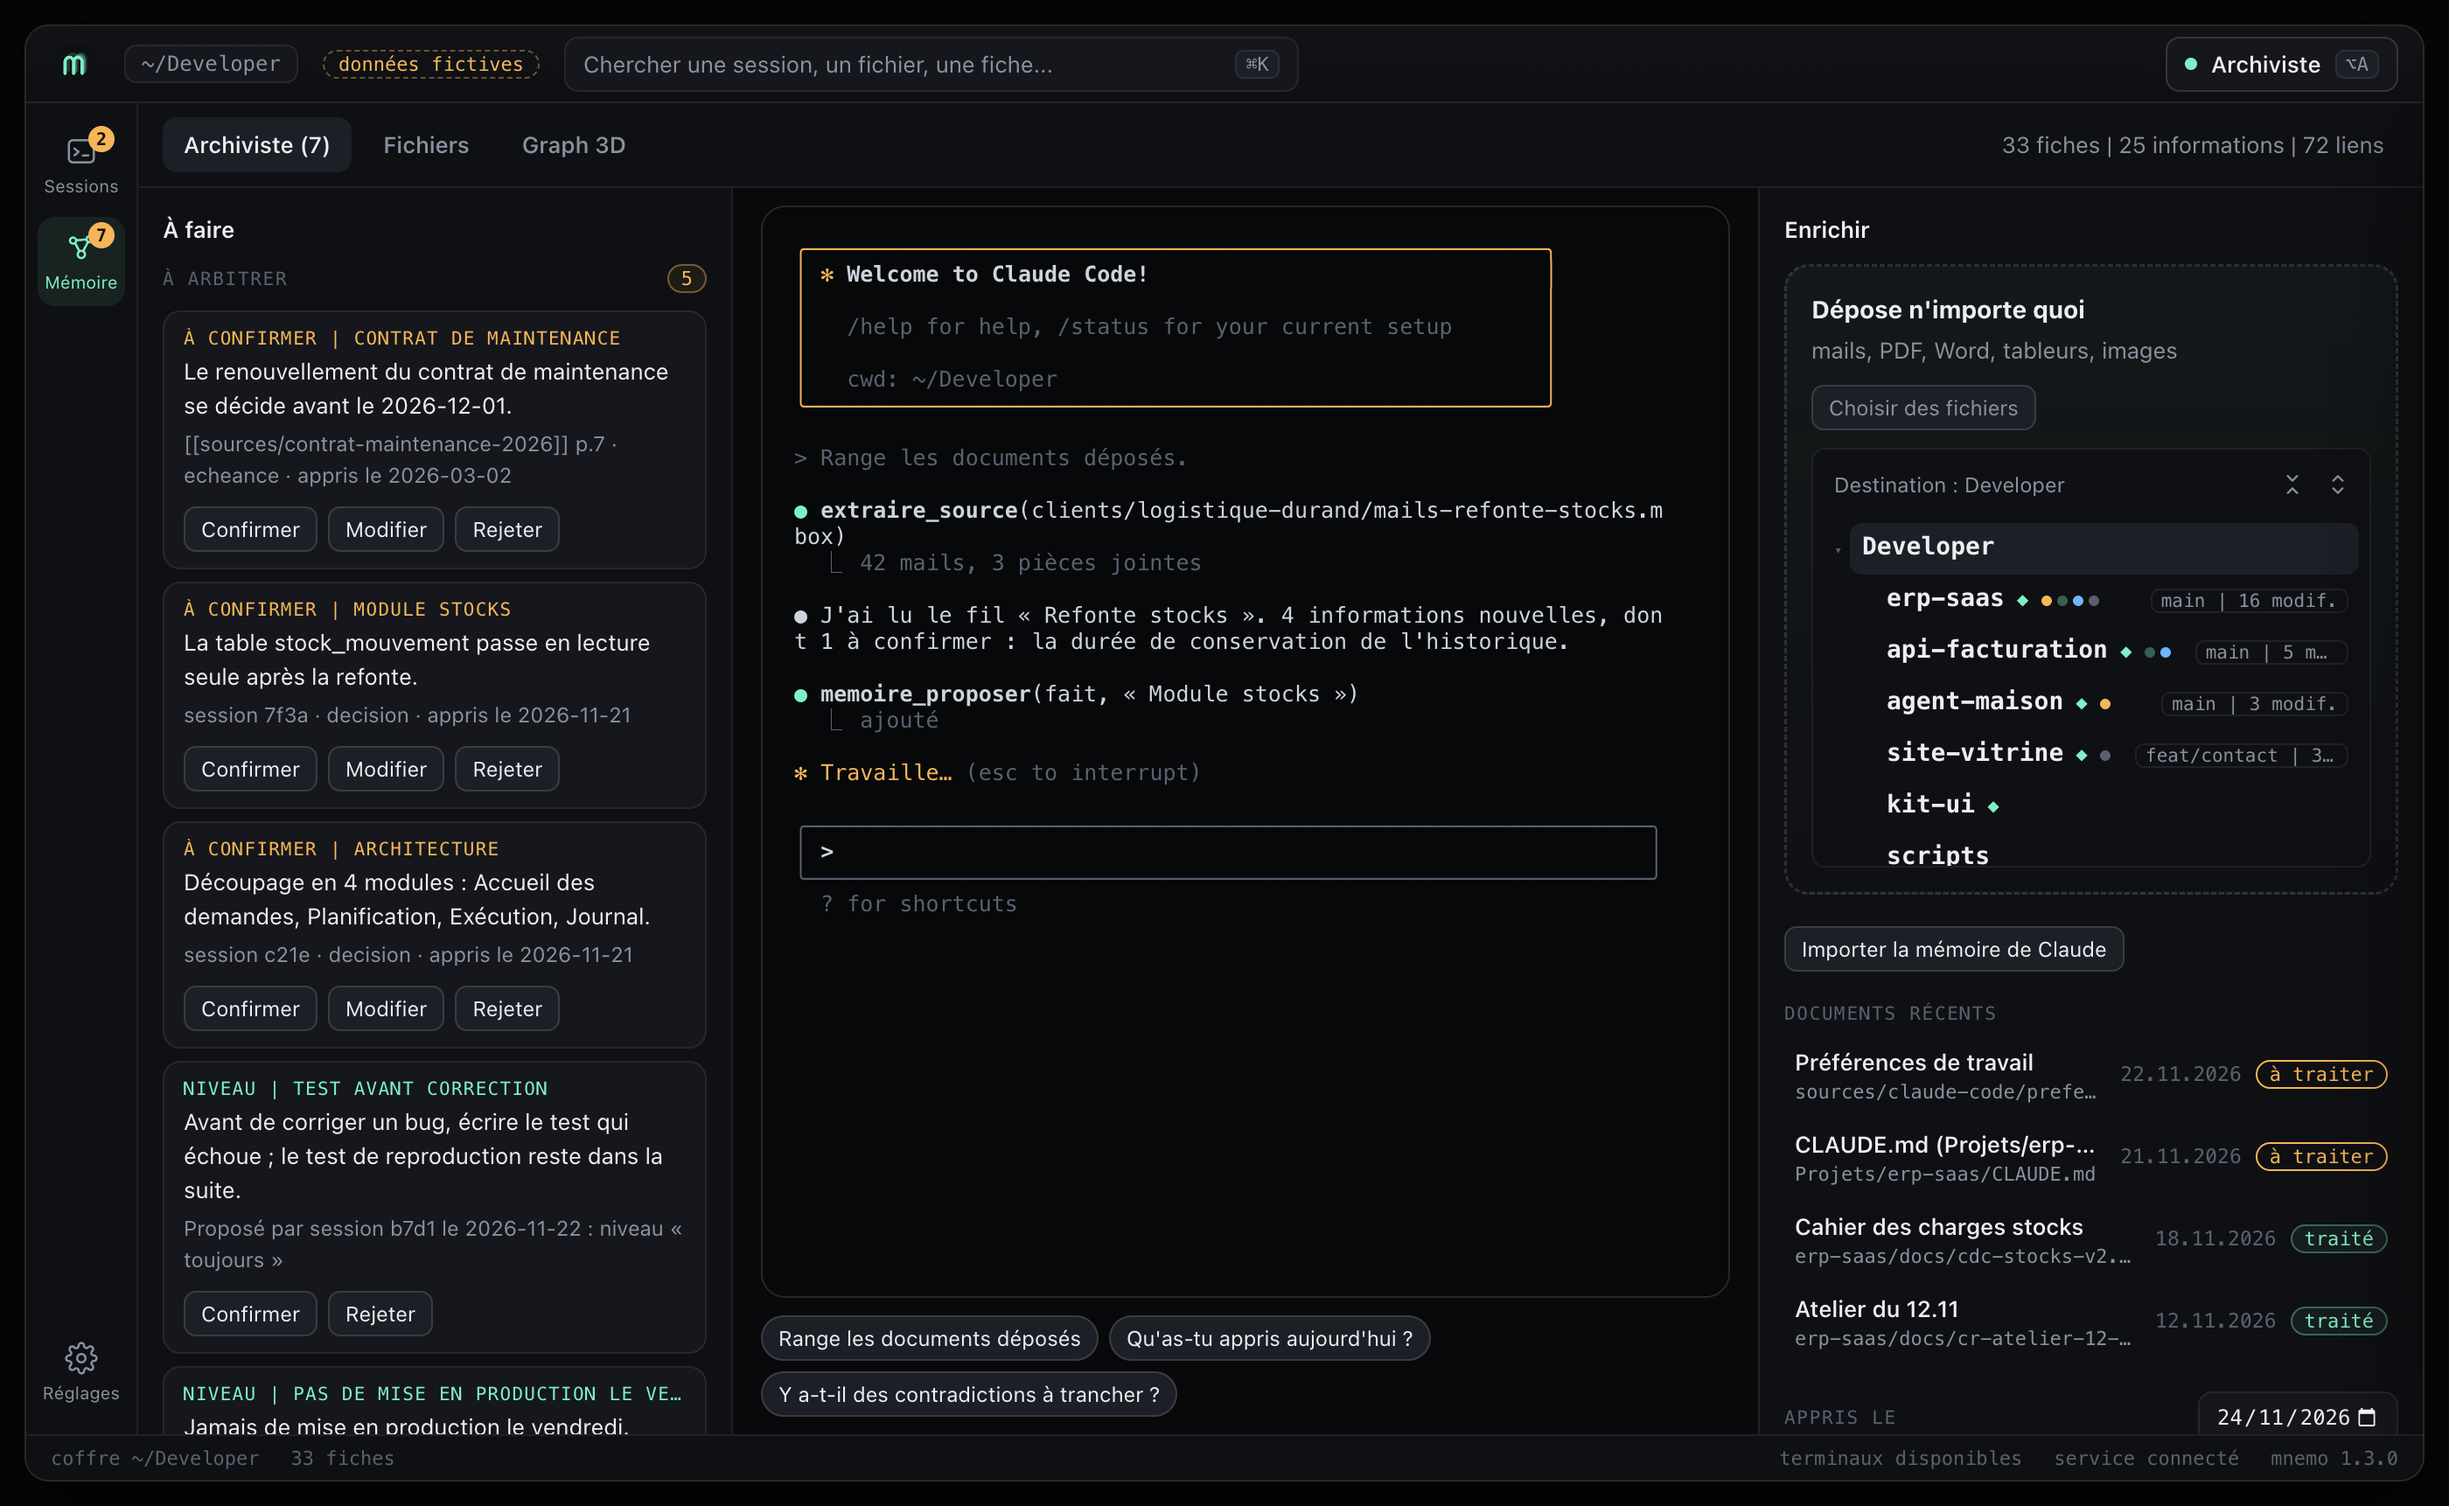
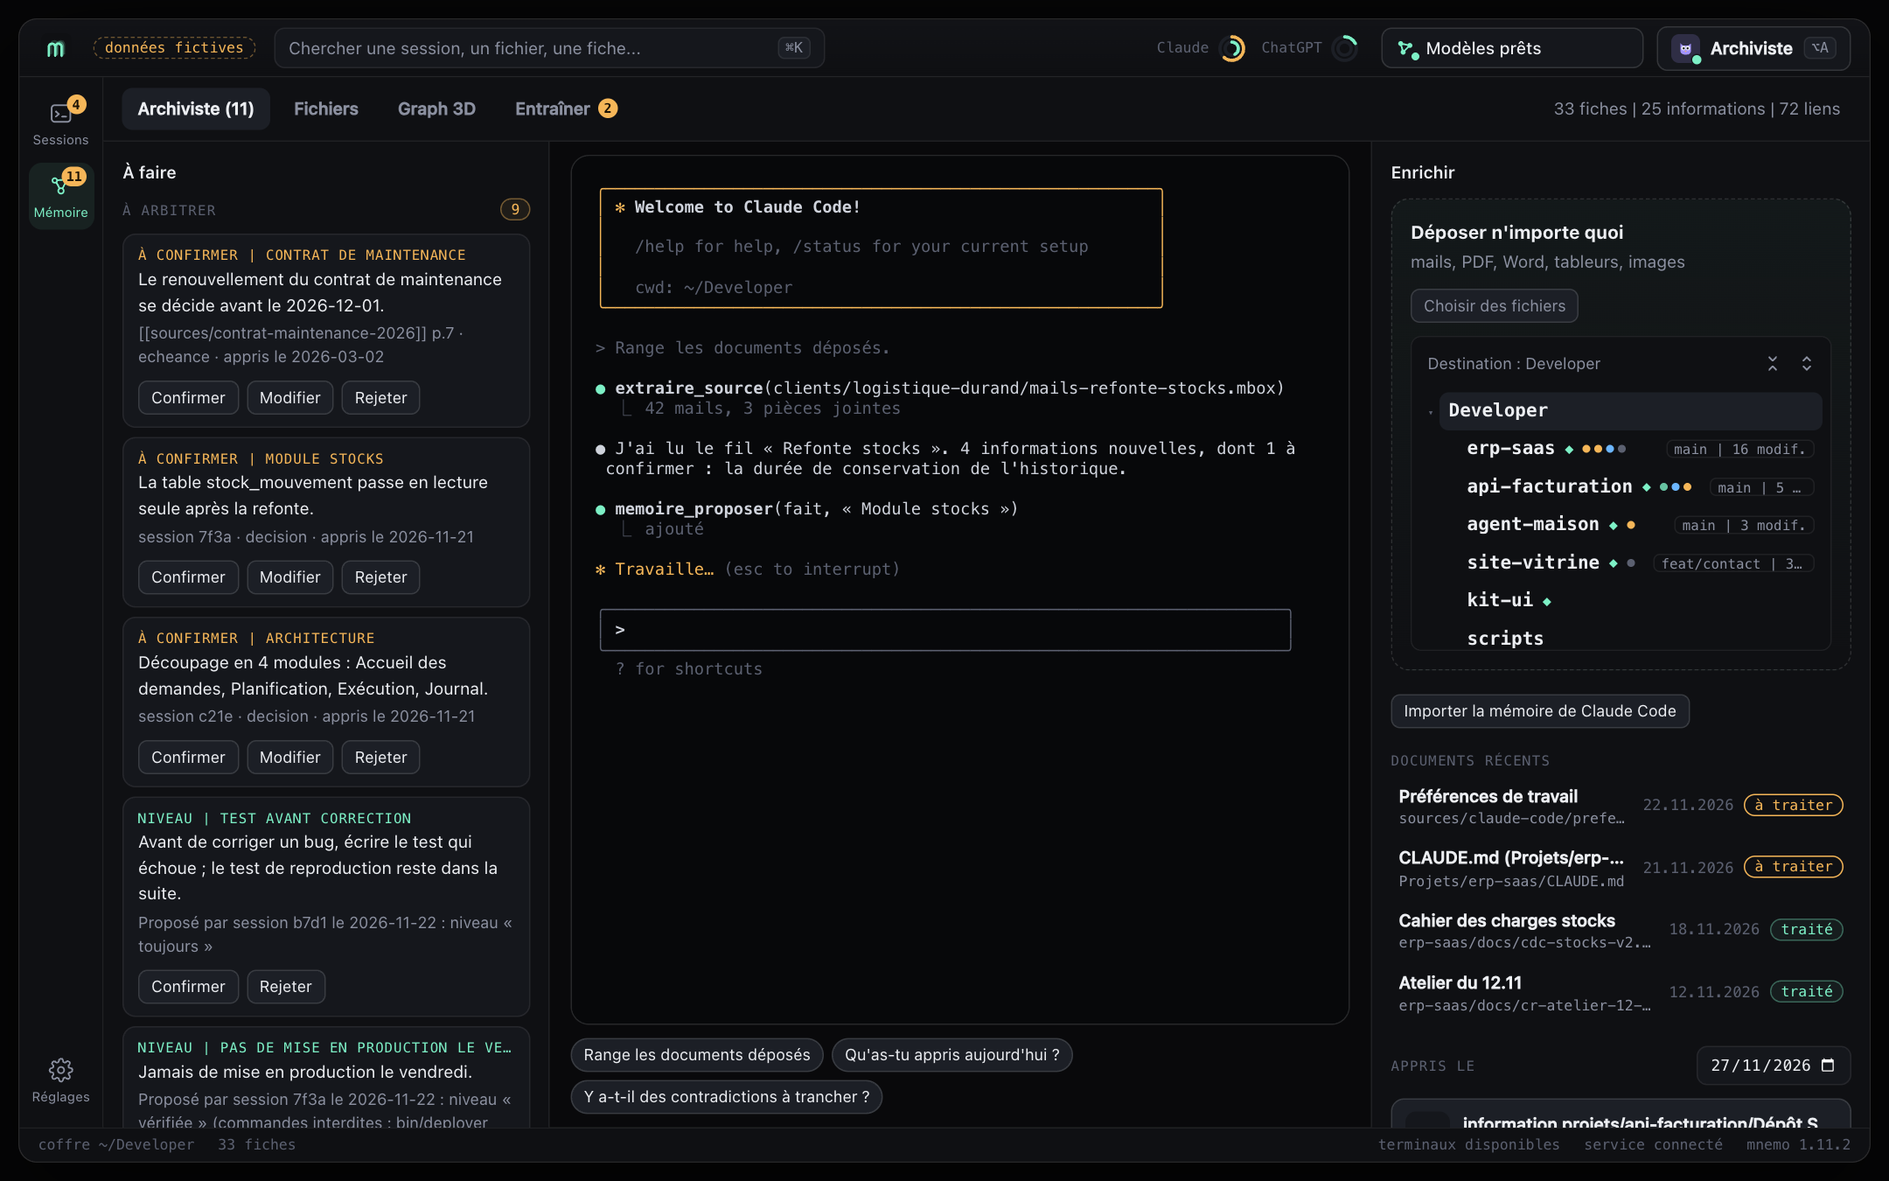
docs(readme): ouverture recentrée sur la mémoire locale partagée par tous les agents ; captures refaites depuis le mode démo (session et panneau Contexte avec aperçu, session Codex, archiviste, graphe)

diff --git a/README.md b/README.md
@@ -1,11 +1,12 @@
 # Mnemo
 
-Mnemo is a workspace for coding agent sessions (Claude Code, Codex and Mistral Vibe). Your sessions run side by side in
-one window, each in its own terminal, and share a memory: a plain folder of Markdown notes, versioned with git, that
-the agents read and enrich as they work. At each message, Mnemo finds in that memory what the session should know and
-shows you exactly what it was given.
+One memory on your machine, shared by all your coding agents. Claude Code, Codex and Mistral Vibe sessions started
+from Mnemo read and write the same memory: a folder of Markdown notes, versioned with git, next to your projects. At
+each message, Mnemo injects what the session should know from it, and the Contexte panel shows exactly what was
+injected and why. The agents keep the memory up to date as they work; anything that changes what is trusted waits for
+your OK. Nothing leaves your machine except what each agent already sends to its own provider.
 
-![Sessions view: sessions grouped by project, the folder tree, and the context injected into the selected session](docs/images/sessions.png)
+![A Claude Code session zoomed in Mnemo. On the right, the Contexte panel: the notes injected into the session, the injection threshold, the ranked candidate notes with their score and reason, and the preview of one note with « Ouvrir la fiche », « Injecter » and « Écarter »](docs/images/sessions.png)
 
 ## What it does
 
@@ -19,6 +20,9 @@ shows you exactly what it was given.
   judgements (Mémoire › Entraîner, where Claude can pre-judge for you) and from your gestures in the background.
 - **Memory kept by the agent.** Through an MCP server, the agent searches the memory, reads notes and proposes changes;
   anything that changes what is trusted waits for your OK. Each session ends with a short episode of what was learned.
+
+![The same memory in a Codex session: the notes injected from the project folder in the Contexte panel, and Codex proposing a new fact to the memory through the MCP server](docs/images/codex.png)
+
 - **Documents.** Drop a spec, an email, meeting notes or a PDF: the archivist pulls out the facts worth keeping, with
   their source and date, and asks you when something contradicts what is already there.
 - **Agents.** A profile sets a session's engine and model, instruction, skills, plugins and avatar. Settings › Agents
@@ -26,7 +30,7 @@ shows you exactly what it was given.
 - **Plain files.** It is all Markdown in `_mnemo/`, one git commit per change. Browse it as a tree or a 3D graph, edit
   it in the interface or your own editor, and `git revert` what you don't like.
 
-![Archivist page: facts to confirm or reject, the archivist session at work on dropped documents, and what was learned today](docs/images/archiviste.png)
+![Archivist page: facts proposed by the sessions and the archivist, waiting for « Confirmer », « Modifier » or « Rejeter », the archivist session reading a dropped mailbox, and the recent documents](docs/images/archiviste.png)
 
 ## How it works
 
@@ -42,7 +46,7 @@ shows you exactly what it was given.
 
 The details are in the [usage guide](docs/usage.md).
 
-![Memory as a 3D graph: notes for projects, clients, people, decisions and sources, linked by their relations](docs/images/graphe.png)
+![Memory as a 3D graph: notes for projects, clients, people, decisions, episodes and sources linked by their relations, with one note selected and its eight direct links listed](docs/images/graphe.png)
 
 ## Getting started
 
